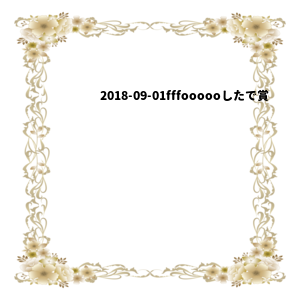
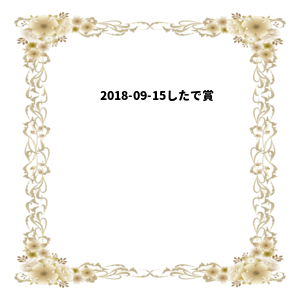
update rmagickをモデルに入れる

Changed region(s): [[0.51, 0.3, 0.9, 0.36]]

diff --git a/app/controllers/users_controller.rb b/app/controllers/users_controller.rb
@@ -1,19 +1,20 @@
 class UsersController < ApplicationController
-  before_action :authenticate_user, only: [:give_award]
+  before_action :authenticate_user, only: [:all_givers, :all_givings]
   #before_action :set_user, only: [:show_givers, :show_givings]
-  def show_givers
-    user = User.find(4)
-    @given_awards = user.given_awards
+  def all_givers
+    @given_awards = current_user.given_awards
   end
 
-  def show_givings
-    user = User.find(4)
-    @giving_awards = user.giving_awards
+  def all_givings
+    @giving_awards = current_user.giving_awards
   end
 
   #<% @given_awards.each do |ga| %>
    # <%= ga.given.username %>
   #<% end %>
  # view側では上の書き方で呼び出せる
+
+
+
 
 end

diff --git a/app/controllers/awards_controller.rb b/app/controllers/awards_controller.rb
@@ -18,16 +18,8 @@ class AwardsController < ApplicationController
 
   def confirm
     @award = Award.new(award_params)
+    @award.make_award_img
     render :new if @award.invalid?
-
-    award_img = Magick::ImageList.new("#{Rails.root}/app/assets/images/award.png")
-    resized_award_img = award_img.resize(300, 300)
-    font = "#{Rails.root}/app/assets/fonts/GenJyuuGothic-Heavy.ttf"
-    draw = Magick::Draw.new
-    draw.annotate(resized_award_img, 100, 100, 100, 100, "#{Date.today}#{@award.contents}したで賞") do
-      self.font = font
-    end
-    @annotated_award_img = resized_award_img.write("#{Rails.root}/app/assets/images/annotated_award_img.png")
   end
 
   # GET /awards/1/edit

diff --git a/app/models/award.rb b/app/models/award.rb
@@ -6,6 +6,18 @@ class Award < ApplicationRecord
   validates :given_id, presence: true
   validates :contents, presence: true
 
+  def make_award_img
+    award_contents = self.contents
+    award_img = Magick::ImageList.new("#{Rails.root}/app/assets/images/award.png")
+    resized_award_img = award_img.resize(300, 300)
+    font = "#{Rails.root}/app/assets/fonts/GenJyuuGothic-Heavy.ttf"
+    draw = Magick::Draw.new
+    draw.annotate(resized_award_img, 100, 100, 100, 100, "#{Date.today}#{award_contents}したで賞") do
+      self.font = font
+    end
+    resized_award_img.write("#{Rails.root}/app/assets/images/annotated_award_img.png")
+  end
+
 
 
 end

diff --git a/app/models/user.rb b/app/models/user.rb
@@ -18,10 +18,7 @@ class User < ApplicationRecord
     giving_awards.create(given_id: given_user.id)
   end
 
-  #自分が賞を送った人一覧
 
-
-  #自分に賞を送ってくれた人一覧
 
 
 
